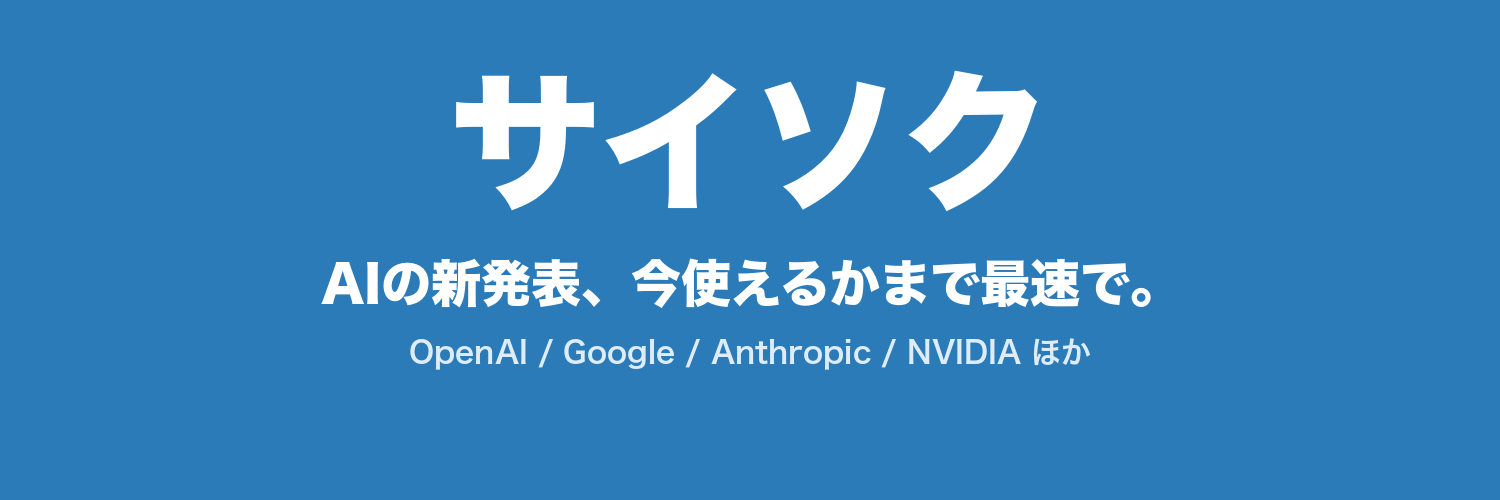
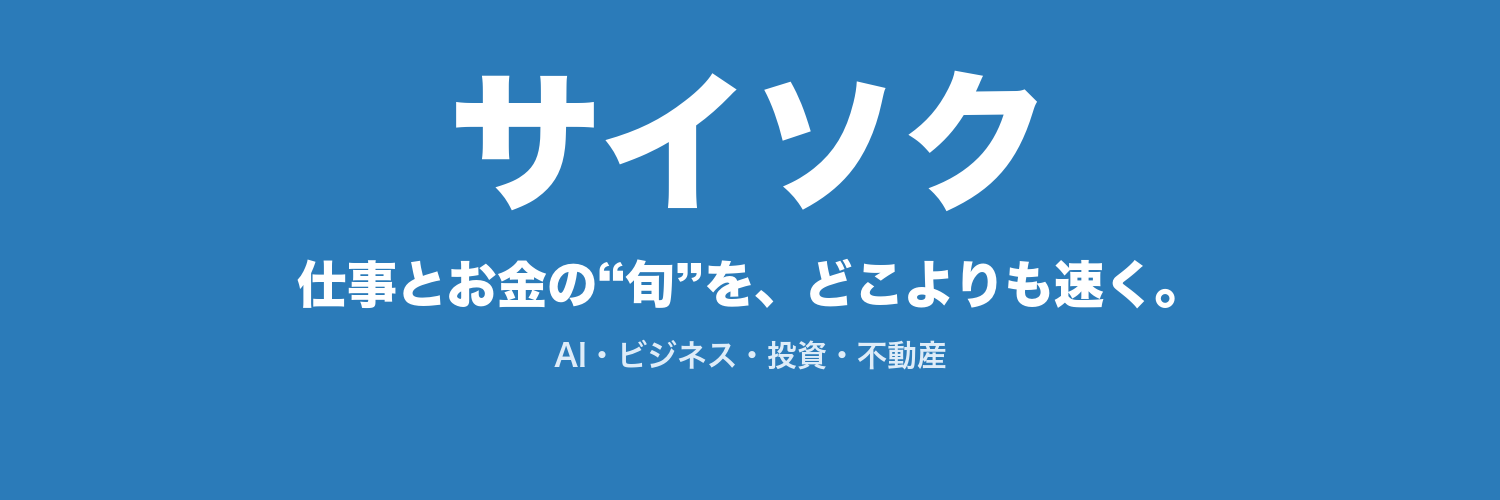
feat(bluesky): 自己紹介とヘッダー画像をAI以外も含む新しい文言に更新

Changed region(s): [[0.184, 0.51, 0.7973, 0.63], [0.276, 0.66, 0.736, 0.75]]

diff --git a/scripts/bluesky_profile.py b/scripts/bluesky_profile.py
@@ -18,9 +18,10 @@ import bluesky_post as bp  # noqa: E402
 ROOT = Path(__file__).resolve().parent.parent
 BANNER = ROOT / "public" / "brand" / "bluesky-banner.png"
 DISPLAY_NAME = "サイソクニュース"
-DESCRIPTION = """⚡公式発表から最短6分で、AIニュースを日本語に
-ChatGPT・Gemini・Claudeの新機能を「日本で使える？無料？」まで3行で
-フォローすると、速報がいち早く届きます
+DESCRIPTION = """気づけば、周りはもう動いてる
+そうならないための最速ニュース⚡
+忙しくても、サイソクで「旬」がわかる
+何ができるか、どう使うか、何に役立つかが一瞬で
 ai-tech-express.jp"""
 
 
